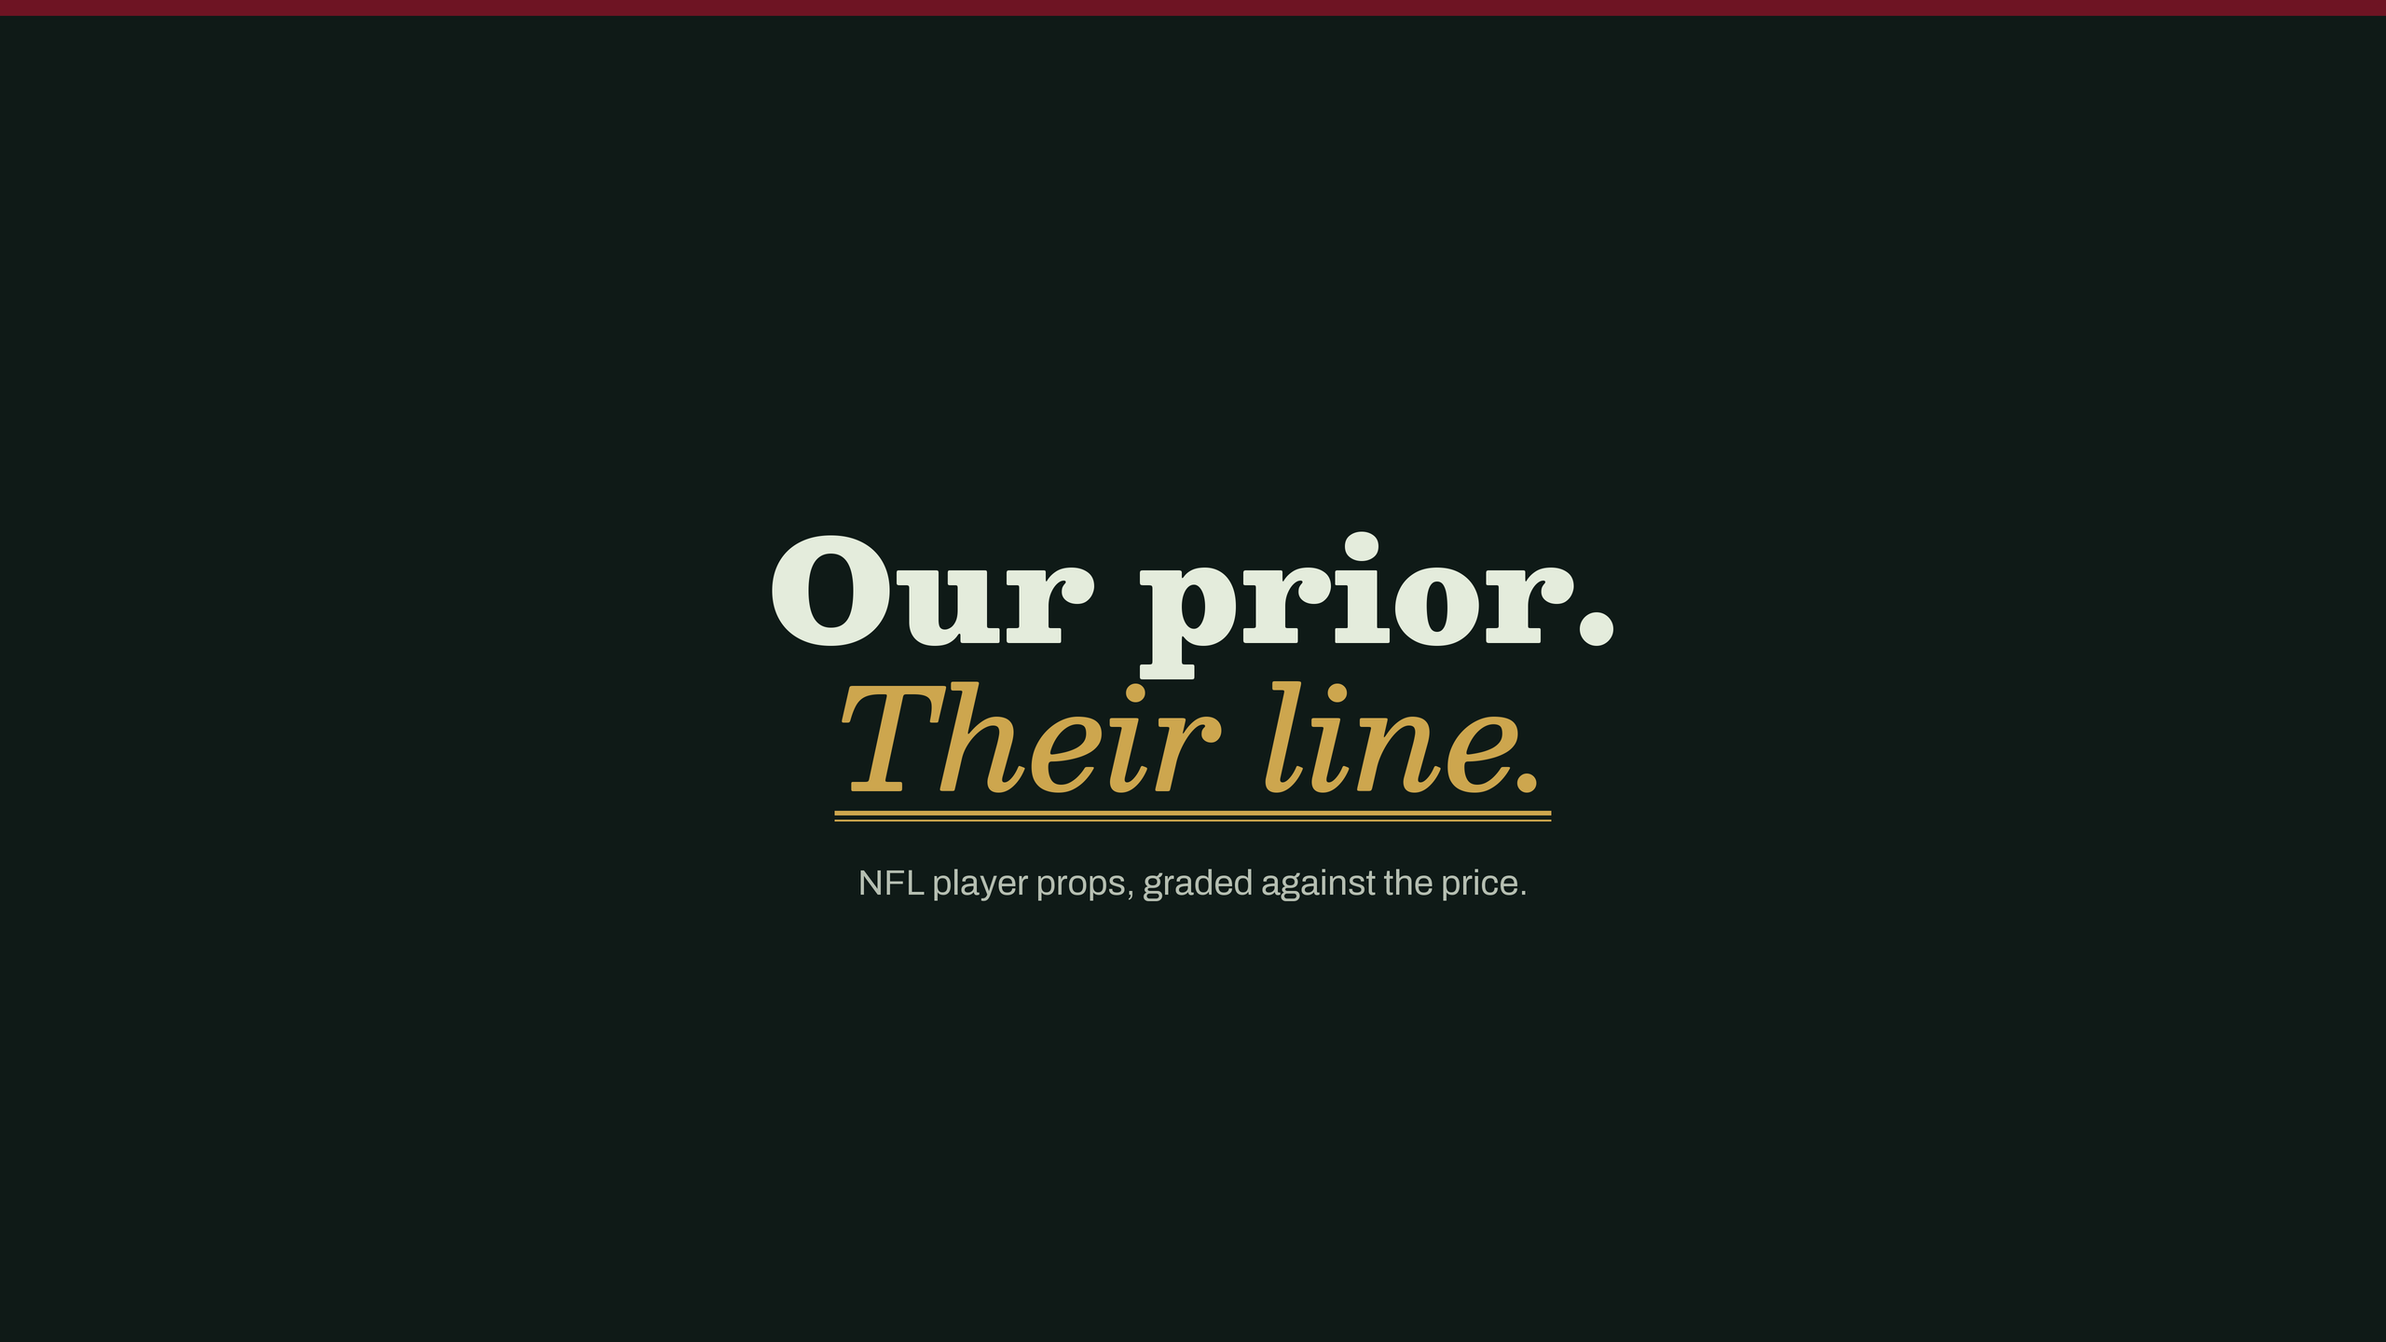
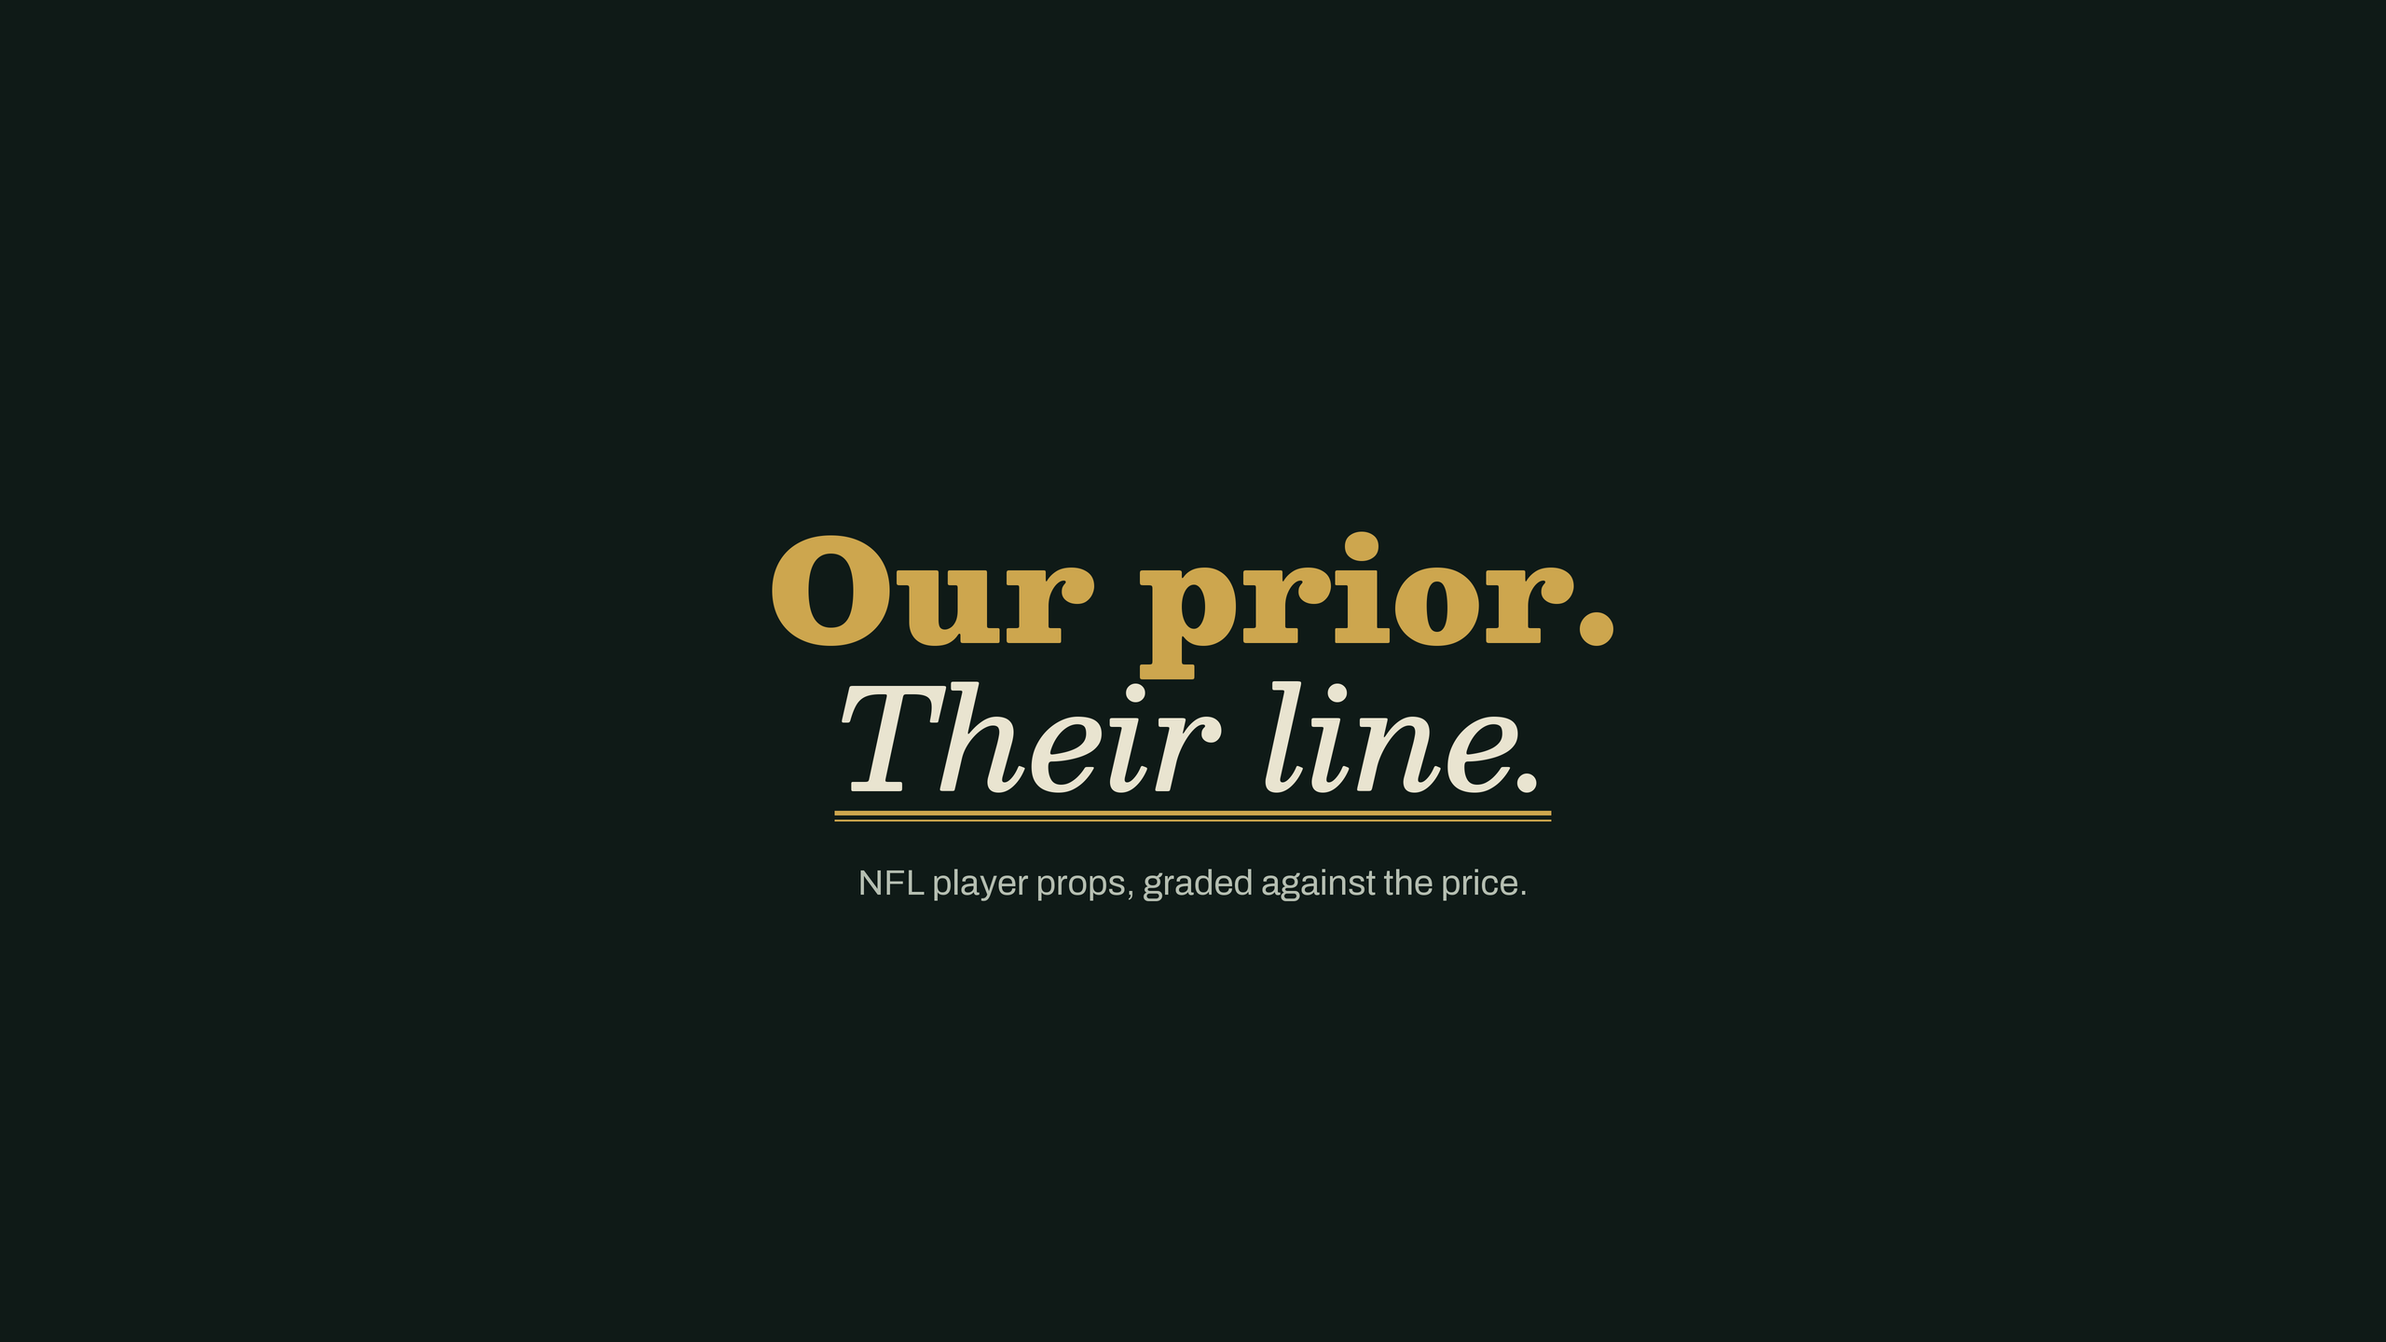
Bring the brand pack and the docs in line with the site
The site dropped the blue accent and the oxblood stripe, and the pack and
three documents still described both. The pack is rebuilt from the same
tokens: the accent on paper is the binding's green, cloth carries gold and
cream and nothing else, and the tagline on cloth is set the way the front
page sets it, the prior in gold and the line in cream on a gold rule.

The link preview is now the cover instead of a strip of masthead over
paper, since that is what the front page opens on. The live ledger
templates are refilled from the record as of today.

Changed region(s): [[0.3125, 0.375, 0.6875, 0.5938], [0.0, 0.0, 1.0, 0.0312]]

diff --git a/apps/web/src/index.css b/apps/web/src/index.css
@@ -2,7 +2,7 @@
  * PriorLine design system.
  *
  * A sportsbook is called a book because it keeps one. This is mine, left open.
- * The site is a bookkeeper's ledger: eye-ease green stock, blue feint rules, a
+ * The site is a bookkeeper's ledger: eye-ease green stock, green feint rules, a
  * red margin, entries in blue-black ink, and totals struck on a double rule,
  * which is where the phrase "the bottom line" comes from. The masthead and the
  * footer are the binder's cloth the pages sit in.
@@ -21,7 +21,7 @@
   --bg-raised-2: #d7e3ce;
   --bg-hover: #cbdac1;
   --bg-input: #f4f7ef;
-  /* Feint: the pale blue a ledger is ruled in. */
+  /* Feint: the pale green this ledger is ruled in. */
   --border: #a9c2b5;
   --border-strong: #5f8274;
   --rule-ink: #18213b;
@@ -44,14 +44,13 @@
   --violet: #5a2585;
   --cyan: #0c5560;
 
-  /* The binding: cloth, the oxblood spine, and the gold the name is stamped in. */
+  /* The binding: cloth, and the gold the name is stamped in. */
   --cloth: #0f1a17;
   --cloth-raised: #172622;
   --cloth-rule: #2a3d37;
   --cloth-text: #e9e4d0;
   --cloth-dim: #b9bfae;
   --gold: #cda64e;
-  --oxblood: #6e1423;
 
   /* -------------------------------------------------- semantic, and only these */
   --green: #17573a;
@@ -180,8 +179,7 @@ body {
 
 /* ================================================================== masthead */
 /*
- * The cover: bottle-black book cloth, an oxblood headband across the top, and
- * the name stamped in gold. The weave is two hairline gradients, which is all
+ * The cover: bottle-black book cloth with the name stamped in gold. The weave is two hairline gradients, which is all
  * book cloth is at this size.
  */
 .ps-mast {
@@ -3276,7 +3274,7 @@ tr:hover .ps-avatar, .ps-playercard:hover .ps-avatar {
 .ps-glossary-item dd strong { color: var(--text); }
 
 /* ================================================== links */
-/* Links in running text are underlined, in the brand blue. The oldest
+/* Links in running text are underlined, in the binding's green. The oldest
    convention on the web is still the one nobody has to learn. */
 /*
  * No underlines.

diff --git a/apps/web/src/components/PageTitle.tsx b/apps/web/src/components/PageTitle.tsx
@@ -1,8 +1,8 @@
 /**
- * A page title in two voices: upright ink, then the italic in ledger blue.
+ * A page title in two voices: upright ink, then the italic in the binding's green.
  *
  * The second half is the noun that names the page, set in the italic of the
- * same serif and in the blue a bookkeeper uses for the entry that matters. One
+ * same serif and in the green of the cloth the book is bound in. One
  * colour, no gradient. A heading that decorates every word competes with the
  * masthead instead of sitting under it.
  */
@@ -13,7 +13,7 @@ export default function PageTitle({
 }: {
   /** The upright half, in ink. */
   lead: string;
-  /** The italic half, in ledger blue. Usually the page's actual noun. */
+  /** The italic half, in binding green. Usually the page's actual noun. */
   accent: string;
 }) {
   return (

diff --git a/scripts/build_brand.py b/scripts/build_brand.py
@@ -46,14 +46,14 @@ PUBLIC = ROOT / "apps" / "web" / "public"
 # The site's own tokens, from apps/web/src/index.css.
 CLOTH = "#0f1a17"
 GOLD = "#cda64e"
+CREAM = "#e9e4d0"
 PAPER = "#e4ecdc"
 INK = "#18213b"
 INK_DIM = "#4a556f"
-BLUE = "#1c3c9c"
-RULE = "#a9c0c6"
+GREEN = "#14483b"
+RULE = "#a9c2b5"
 MARGIN = "#c9585a"
 RED = "#a31b1b"
-OXBLOOD = "#6e1423"
 BLACK = "#000000"
 WHITE = "#ffffff"
 
@@ -272,10 +272,8 @@ def paper(w: int, h: int, margin: float | None = None, pitch: float = 0) -> Shee
 
 
 def cloth(w: int, h: int) -> Sheet:
-    """Dark bookcloth with the oxblood headband across the top."""
-    c = Sheet(w, h, CLOTH)
-    c.rect(0, 0, w, max(4, h * 0.012), rgb(OXBLOOD))
-    return c
+    """Dark bookcloth, plain. The gold is the only thing on it."""
+    return Sheet(w, h, CLOTH)
 
 
 def lockup(c: Sheet, x, y, size, fill):
@@ -285,7 +283,11 @@ def lockup(c: Sheet, x, y, size, fill):
 
 
 def tagline(c: Sheet, x, y, size, first, second, rule, align="l", stacked=True):
-    """The line itself: the prior upright, the line in italic on a double rule."""
+    """The line itself: the prior upright, the line in italic on a double rule.
+
+    On cloth the prior is gold and the line is cream on a gold rule, the way
+    the front page sets it. On paper the prior is ink and the line is green.
+    """
     kw = dict(heavy=max(2, size * 0.035), gap=max(2, size * 0.03), light=max(1, size * 0.014))
     w = c.width(TAG_B, ITALIC, size)
     if stacked:
@@ -482,14 +484,14 @@ def build_social():
     # left empty and the type sits right of centre.
     c = cloth(1500, 500)
     c.frame(28, 34, 1444, 438, hair)
-    tagline(c, 470, 215, 78, PAPER, GOLD, rgb(GOLD), stacked=False)
+    tagline(c, 470, 215, 78, GOLD, CREAM, rgb(GOLD), stacked=False)
     c.wrap(474, 300, "I project every NFL player prop, pick a side, and grade every pick against the price it was offered at. The whole record is posted, including the parts written in red.", SANS, 25, soft, 900, lead=1.45)
     c.text(1440, 440, SITE, CAPS, 20, GOLD, track=0.12, align="r")
     c.save(d / "banners" / "x-header-1500x500.png")
 
     # LinkedIn company cover, 1128x191. The logo covers the lower left.
     c = cloth(1128, 191)
-    tagline(c, 300, 108, 58, PAPER, GOLD, rgb(GOLD), stacked=False)
+    tagline(c, 300, 108, 58, GOLD, CREAM, rgb(GOLD), stacked=False)
     c.text(302, 158, "NFL player props, graded against the price. The record is public.", SANS, 19, soft)
     c.text(1096, 158, SITE, CAPS, 15, GOLD, track=0.12, align="r")
     c.save(d / "banners" / "linkedin-company-1128x191.png")
@@ -497,7 +499,7 @@ def build_social():
     # LinkedIn personal cover, 1584x396.
     c = cloth(1584, 396)
     c.frame(24, 28, 1536, 344, hair)
-    tagline(c, 560, 180, 84, PAPER, GOLD, rgb(GOLD), stacked=False)
+    tagline(c, 560, 180, 84, GOLD, CREAM, rgb(GOLD), stacked=False)
     c.wrap(563, 258, "I build PriorLine: NFL player prop projections, graded in public against the prices the books offered.", SANS, 25, soft, 900, lead=1.45)
     c.text(1524, 344, SITE, CAPS, 19, GOLD, track=0.12, align="r")
     c.save(d / "banners" / "linkedin-personal-1584x396.png")
@@ -505,25 +507,23 @@ def build_social():
     # Facebook cover, 1640x624, centred so the mobile crop keeps the type.
     c = cloth(1640, 624)
     c.frame(30, 36, 1580, 558, hair)
-    end = tagline(c, 820, 270, 112, PAPER, GOLD, rgb(GOLD), align="c")
+    end = tagline(c, 820, 270, 112, GOLD, CREAM, rgb(GOLD), align="c")
     c.text(820, end + 62, "NFL player props, graded against the price.", SANS, 28, soft, align="c")
     c.save(d / "banners" / "facebook-cover-1640x624.png")
 
     # YouTube channel art, 2560x1440, everything inside the 1546x423 safe area.
     c = cloth(2560, 1440)
-    end = tagline(c, 1280, 690, 150, PAPER, GOLD, rgb(GOLD), align="c")
+    end = tagline(c, 1280, 690, 150, GOLD, CREAM, rgb(GOLD), align="c")
     c.text(1280, end + 66, "NFL player props, graded against the price.", SANS, 38, soft, align="c")
     c.save(d / "banners" / "youtube-channel-2560x1440.png")
 
-    # Link preview, 1200x630. The site in one frame: cloth masthead, ruled
-    # paper, the red margin and the line.
-    c = paper(1200, 630, margin=64, pitch=42)
-    c.rect(0, 0, 1200, 96, rgb(CLOTH))
-    c.rect(0, 0, 1200, 6, rgb(OXBLOOD))
-    lockup(c, 98, 22, 58, GOLD)
-    c.text(1136, 62, SITE, CAPS, 18, GOLD, track=0.12, align="r")
-    end = tagline(c, 104, 262, 118, INK, BLUE, rgb(BLUE))
-    c.wrap(106, end + 62, "NFL player prop projections, graded against the price they were offered at. The whole record is posted, including the parts written in red.", SANS, 29, INK, 940, lead=1.42)
+    # Link preview, 1200x630. The front page in one frame: the cover, with the
+    # name stamped in gold and the line under it on its double rule.
+    c = cloth(1200, 630)
+    lockup(c, 80, 56, 58, GOLD)
+    c.text(1120, 96, SITE, CAPS, 18, GOLD, track=0.12, align="r")
+    end = tagline(c, 80, 268, 124, GOLD, CREAM, rgb(GOLD))
+    c.wrap(82, end + 60, "NFL player prop projections, graded against the price they were offered at. The whole record is posted, including the parts written in red.", SANS, 28, mix(CLOTH, PAPER, 0.8), 900, lead=1.42)
     c.save(d / "og-image-1200x630.png")
 
 
@@ -596,7 +596,7 @@ def t_ledger(path: Path, w, h, record, asof):
     y = c.wrap(pad, y, "Won is the share of picks that were correct. Needed is the share that had to be correct, at the prices offered, to finish level. Brackets mean a loss.", SANS, (30 if tall else 25) * u, INK, inner, lead=1.5)
     if h - y > 330 * u:
         c.text(pad, y + 70 * u, "Elite is the tier I put forward.", SERIF, 50 * u, INK)
-        c.text(pad, y + 128 * u, "The rest is shown so you can check me.", ITALIC, 36 * u, BLUE)
+        c.text(pad, y + 128 * u, "The rest is shown so you can check me.", ITALIC, 36 * u, GREEN)
     footer(c, pad, INK, rgb(INK_DIM), size=22 * u)
     c.save(path)
 
@@ -614,7 +614,7 @@ def t_entry(path: Path, w, h, blank=False):
         c.text(pad, y, "Player Name", SERIF, 78 * u, INK)
         c.text(pad, y + 52 * u, "Market, opponent", ITALIC, 32 * u, INK_DIM)
         y += 160 * u
-        rows = (("OUR PRIOR", "00.0", INK), ("THEIR LINE", "00.5", BLUE), ("THE PICK", "Under 00.5", INK))
+        rows = (("OUR PRIOR", "00.0", INK), ("THEIR LINE", "00.5", GREEN), ("THE PICK", "Under 00.5", INK))
         tight = h < 1200 * u
         for i, (label, val, col) in enumerate(rows):
             c.text(pad, y, label, CAPS, 20 * u, INK_DIM, track=0.1)
@@ -688,10 +688,10 @@ def t_explainer(path: Path, w, h, number=None, title="", body="", blank=False):
         for ln in ("How an entry", "gets written"):
             c.text(pad, y, ln, SERIF_BLACK, 104 * u, INK)
             y += 112 * u
-        c.text(pad, y - 20 * u, "Four steps, in the order they happen.", ITALIC, 38 * u, BLUE)
+        c.text(pad, y - 20 * u, "Four steps, in the order they happen.", ITALIC, 38 * u, GREEN)
         c.double_rule(pad, y + 20 * u, inner, rgb(INK), heavy=3 * u, gap=4 * u, light=1.5 * u)
     else:
-        c.text(pad, pad + 150 * u, f"{number}.", ITALIC, 170 * u, BLUE)
+        c.text(pad, pad + 150 * u, f"{number}.", ITALIC, 170 * u, GREEN)
         c.text(pad, pad + 300 * u, title, SERIF_BLACK, 92 * u, INK)
         c.rect(pad, pad + 344 * u, inner, 3 * u, rgb(INK))
         c.wrap(pad, pad + 440 * u, body, SANS, 37 * u, INK, inner, lead=1.5)
@@ -728,7 +728,7 @@ def build_templates(record, asof):
         pad = round(w * 0.07)
         c = cloth(w, h)
         c.frame(pad * 0.45, pad * 0.5, w - pad * 0.9, h - pad * 0.95, mix(CLOTH, GOLD, 0.32), t=1.5)
-        end = tagline(c, pad, h * 0.4, 118 * u, PAPER, GOLD, rgb(GOLD), stacked=False)
+        end = tagline(c, pad, h * 0.4, 118 * u, GOLD, CREAM, rgb(GOLD), stacked=False)
         c.wrap(pad + 4 * u, end + 70 * u, "Every NFL player prop, graded against the price it was offered at. The whole record is posted.", SANS, 40 * u, mix(CLOTH, PAPER, 0.78), w * 0.7, lead=1.45)
         footer(c, pad, GOLD, mix(CLOTH, PAPER, 0.5), size=22 * u)
         c.save(d / "landscape" / f"statement-{name}.png")

diff --git a/DESIGN.md b/DESIGN.md
@@ -20,15 +20,14 @@ double rule.
 |---|---|---|
 | paper (--bg) | #e4ecdc | Page ground |
 | leaf | #eef3e8 | Raised panels and table grounds |
-| rule (--border) | #a9c0c6 | Hairlines |
+| rule (--border) | #a9c2b5 | Hairlines |
 | ink (--text) | #18213b | Body and headings on paper |
 | ink-dim | #4a556f | Secondary text on paper |
-| ledger blue (--accent) | #1c3c9c | Links, the italic half of a heading, focus |
+| binding green (--accent) | #14483b | Links, the italic half of a heading, focus. The cloth, lightened enough to read as a colour on paper. |
 | red | #a31b1b | A loss. Nothing else. |
 | margin red | #c9585a | The double margin rule. Never text. |
 | cloth (--cloth) | #0f1a17 | Masthead and footer |
 | gold | #cda64e | The mark and type on cloth. Never on paper. |
-| oxblood | #6e1423 | The headband strip above the masthead |
 
 Green means won or over. Amber marks the value pattern. No colour carries a
 meaning by itself: a loss is red and bracketed, a win is green and signed, a
@@ -72,10 +71,13 @@ from the live record and never typed into static text.
 
 The target is WCAG 2.2 AA. Text is checked against 4.5:1 on paper and on cloth.
 Every interactive target is at least 24 pixels. Focus is a visible 2 pixel
-outline. Motion is small and is removed under prefers-reduced-motion.
+outline. Motion is small everywhere except the front page, which opens the way
+a book is made: the name is stamped, the rule is struck, the account is posted.
+Every element is visible without it, and all of it is removed under
+prefers-reduced-motion.
 
 ## What is not allowed
 
-Gold on paper, blue on cloth, rounded corners, a second accent colour, a
+Gold on paper, green on cloth, blue anywhere, rounded corners, a second accent colour, a
 sportsbook logo, a team or league mark, a countdown, a figure without its
 source.

diff --git a/marketing/README.md b/marketing/README.md
@@ -28,13 +28,13 @@ brackets. The line is "Our prior. Their line."
 | Gold | `#cda64e` | The mark and type on cloth. Never on paper. |
 | Paper | `#e4ecdc` | Light ground. |
 | Ink | `#18213b` | The mark and type on paper. |
-| Ledger blue | `#1c3c9c` | The accent on paper. "Their line." Links. |
+| Binding green | `#14483b` | The accent on paper. "Their line." Links. |
 | Red | `#a31b1b` | Losses, and only losses. |
 | Margin red | `#c9585a` | The double margin rule on paper. Decoration only, never text. |
-| Oxblood | `#6e1423` | The headband strip at the top of cloth. |
-| Rule | `#a9c0c6` | Hairlines on paper. |
+| Rule | `#a9c2b5` | Hairlines on paper. |
 
-Gold on paper and blue on cloth both fail contrast. Do not use them.
+Gold on paper and green on cloth both fail contrast. Do not use them. There is
+no blue and no second red: the only colours on cloth are gold and cream.
 
 ## Type
 

diff --git a/docs/FRONTEND.md b/docs/FRONTEND.md
@@ -55,7 +55,7 @@ Tokens live in `:root` in `src/index.css`. One rule matters more than the rest:
 
 **The site is a ledger, and everything follows from that.** Pages are ruled
 paper (`--bg`), the masthead and footer are dark bookcloth (`--cloth`) stamped in
-gold, type is ink (`--text`), and the accent is ledger blue (`--accent`). Corners
+gold, type is ink (`--text`), and the accent is the binding's green (`--accent`). Corners
 are square. Headings are Besley, a Clarendon, and everything else is Archivo,
 both self-hosted through `@fontsource-variable`.
 
